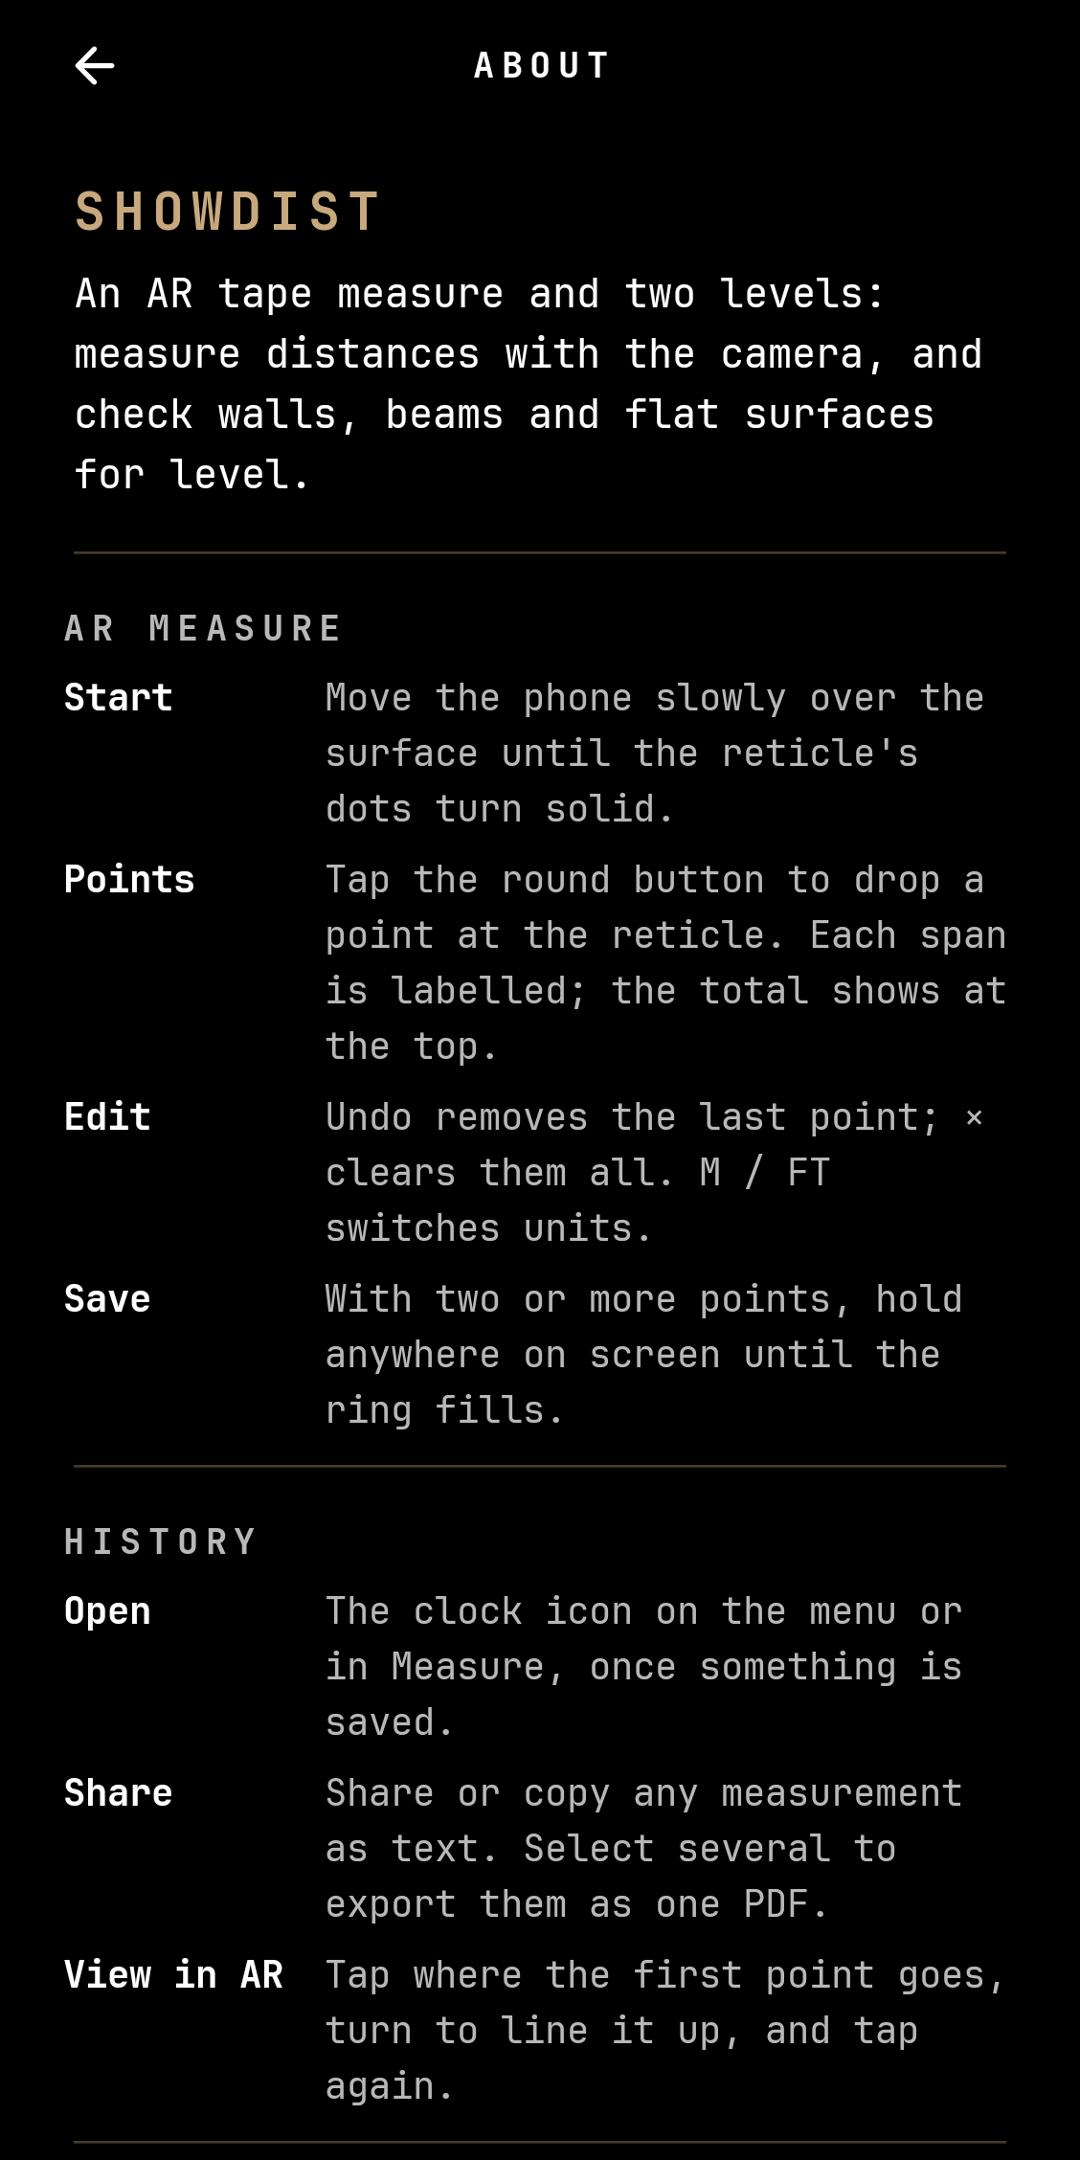
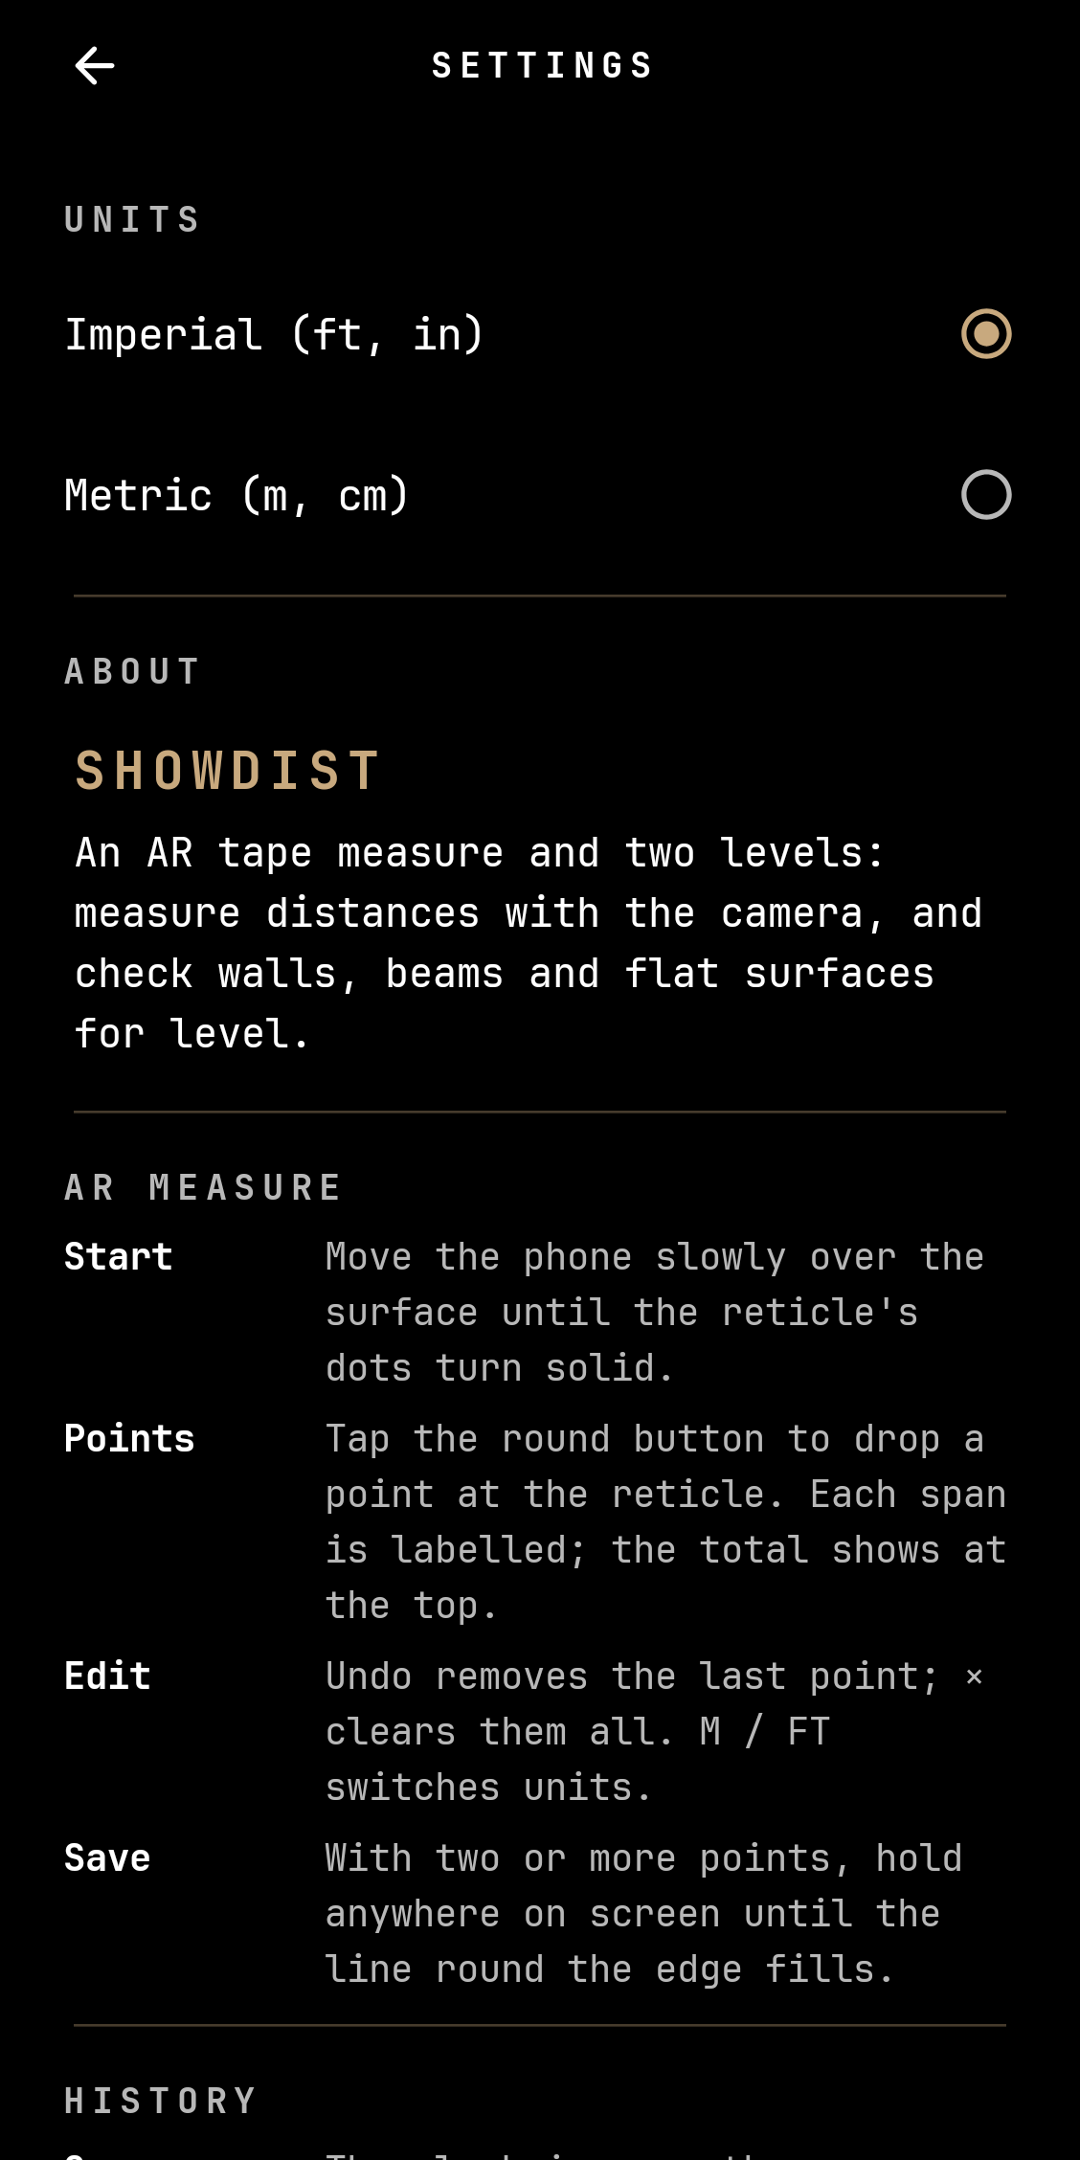
Store screenshot 5: Settings (with About) replaces the old About screen

diff --git a/play-store/listing.md b/play-store/listing.md
@@ -48,7 +48,7 @@ Showdist needs a phone that supports Google Play Services for AR (ARCore). AR me
 
 **Tags** (pick up to 5 in Console): Measuring, Tools, Augmented reality, Home improvement, Productivity
 
-**Contact email:** `sh.run.configs@gmail.com` (the address on the About screen)
+**Contact email:** `sh.run.configs@gmail.com` (the address in Settings, under About)
 
 **Website:** https://github.com/carlosantoniocruz/showdist-android (public source).
 
